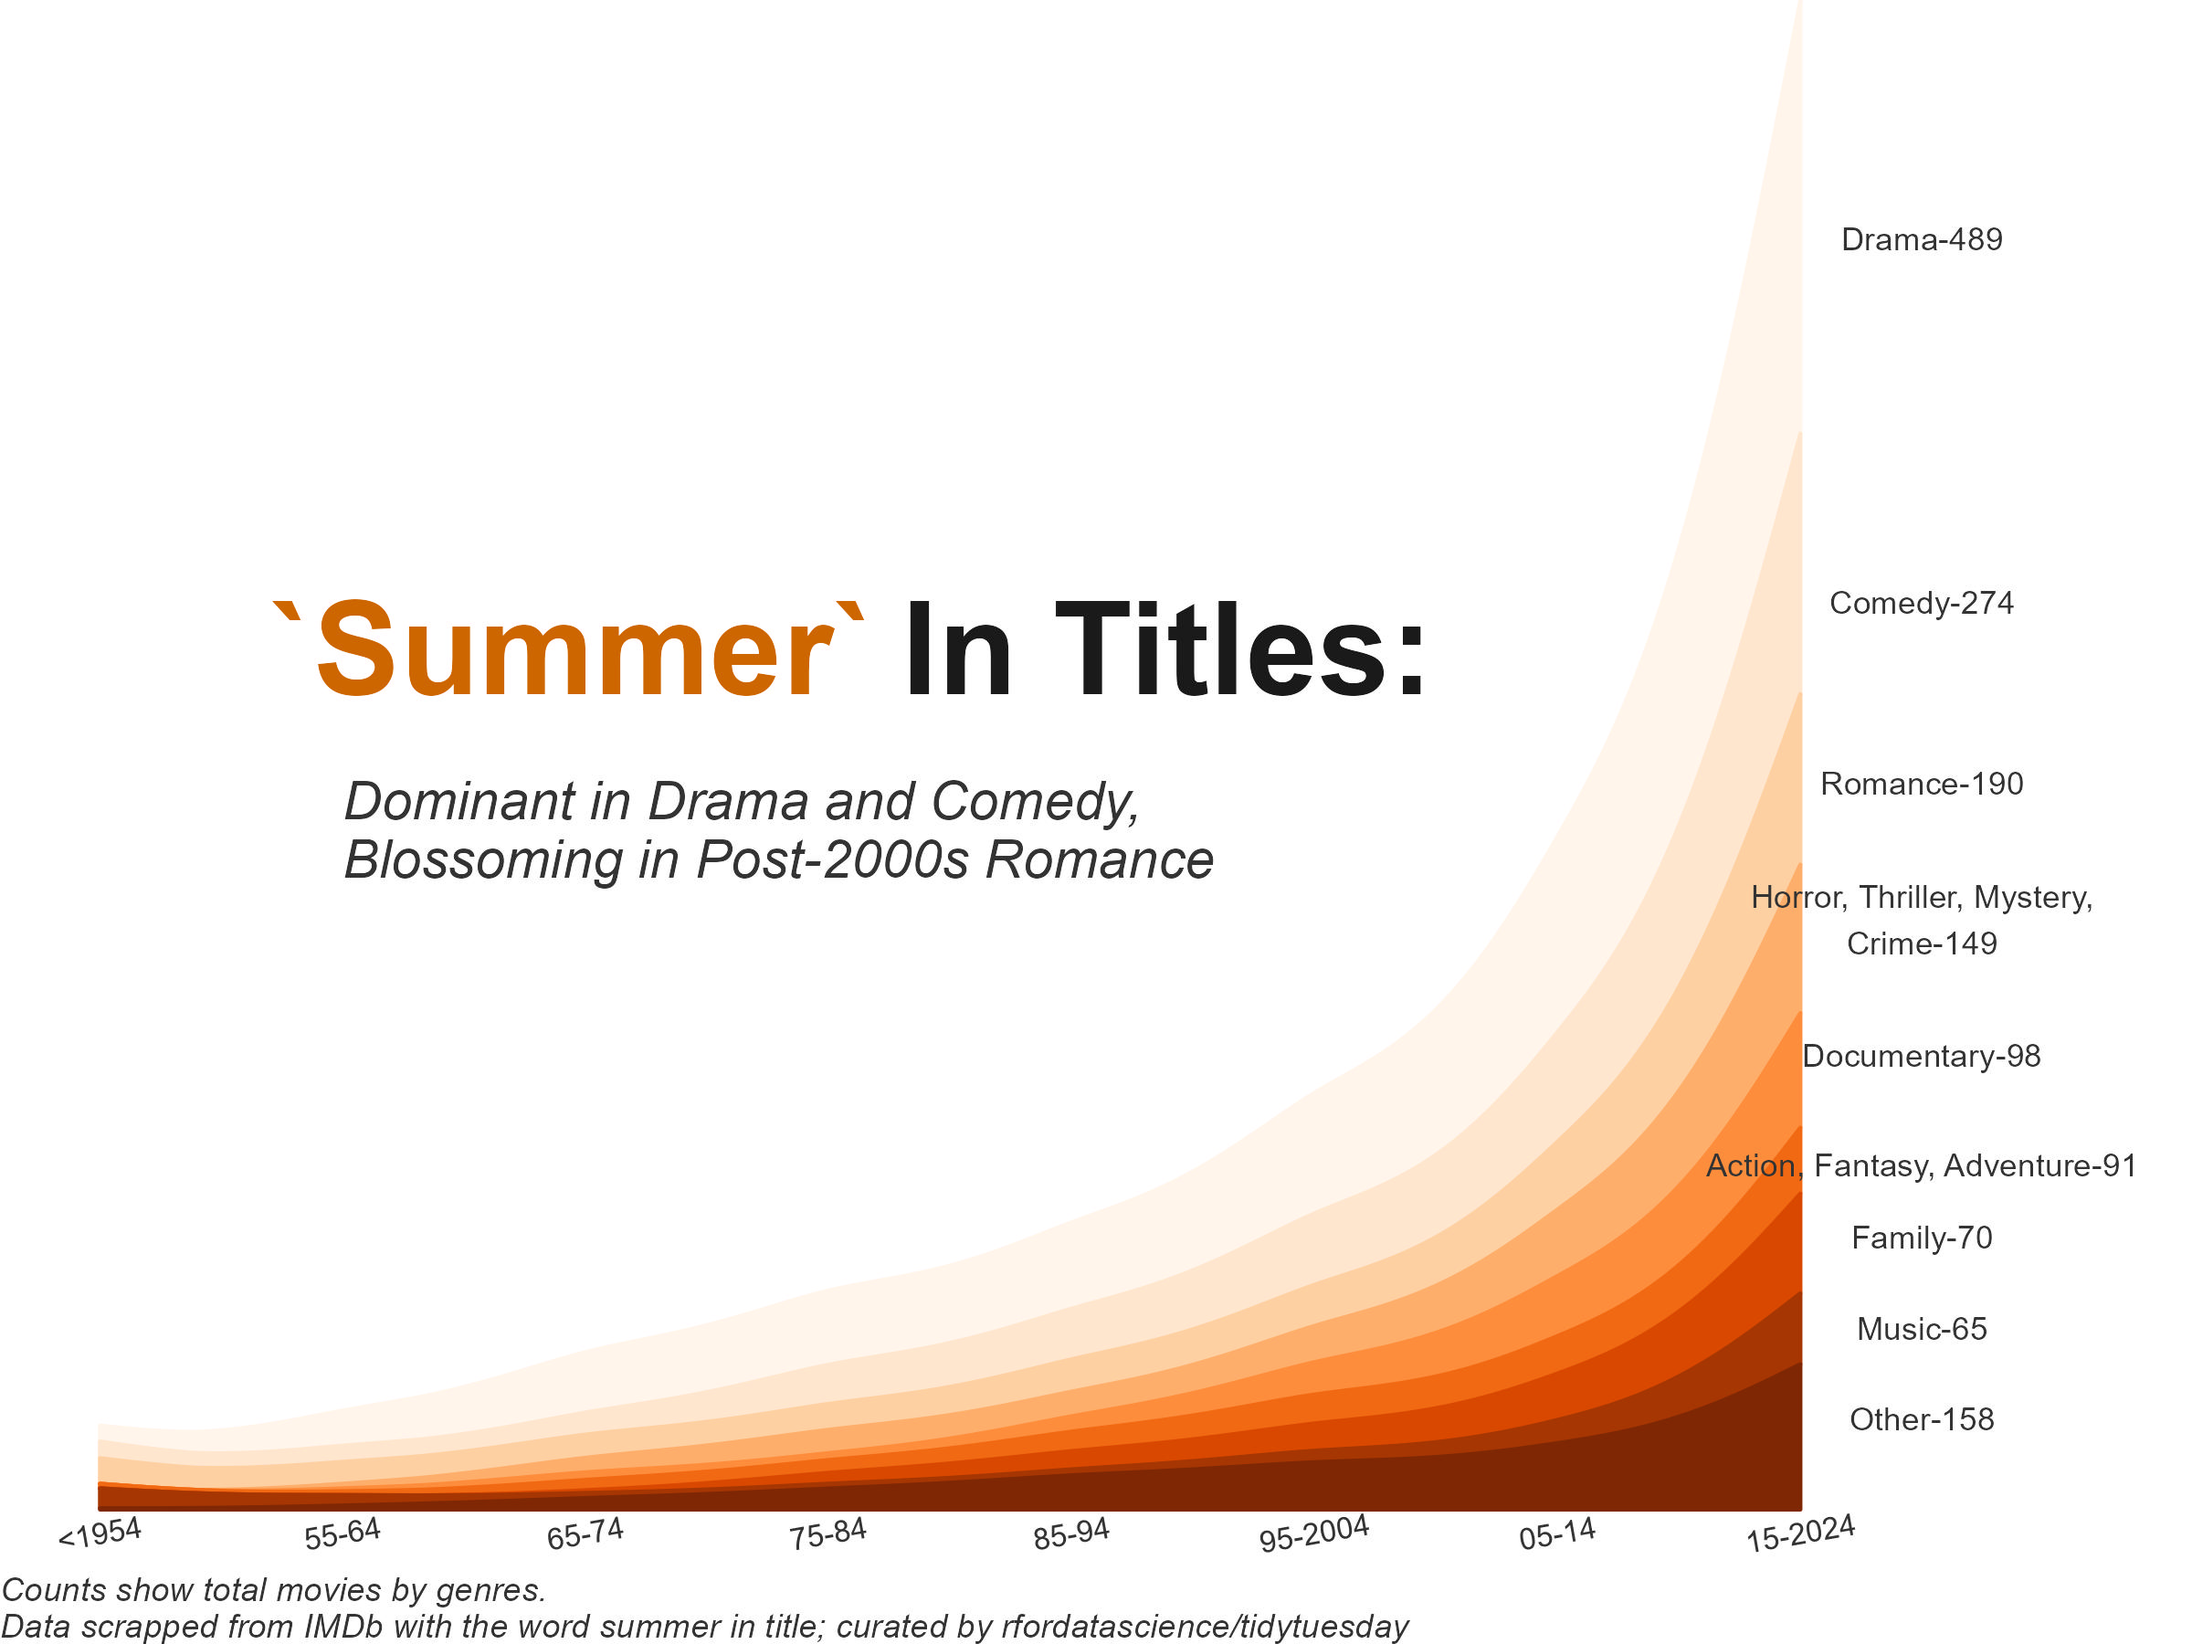
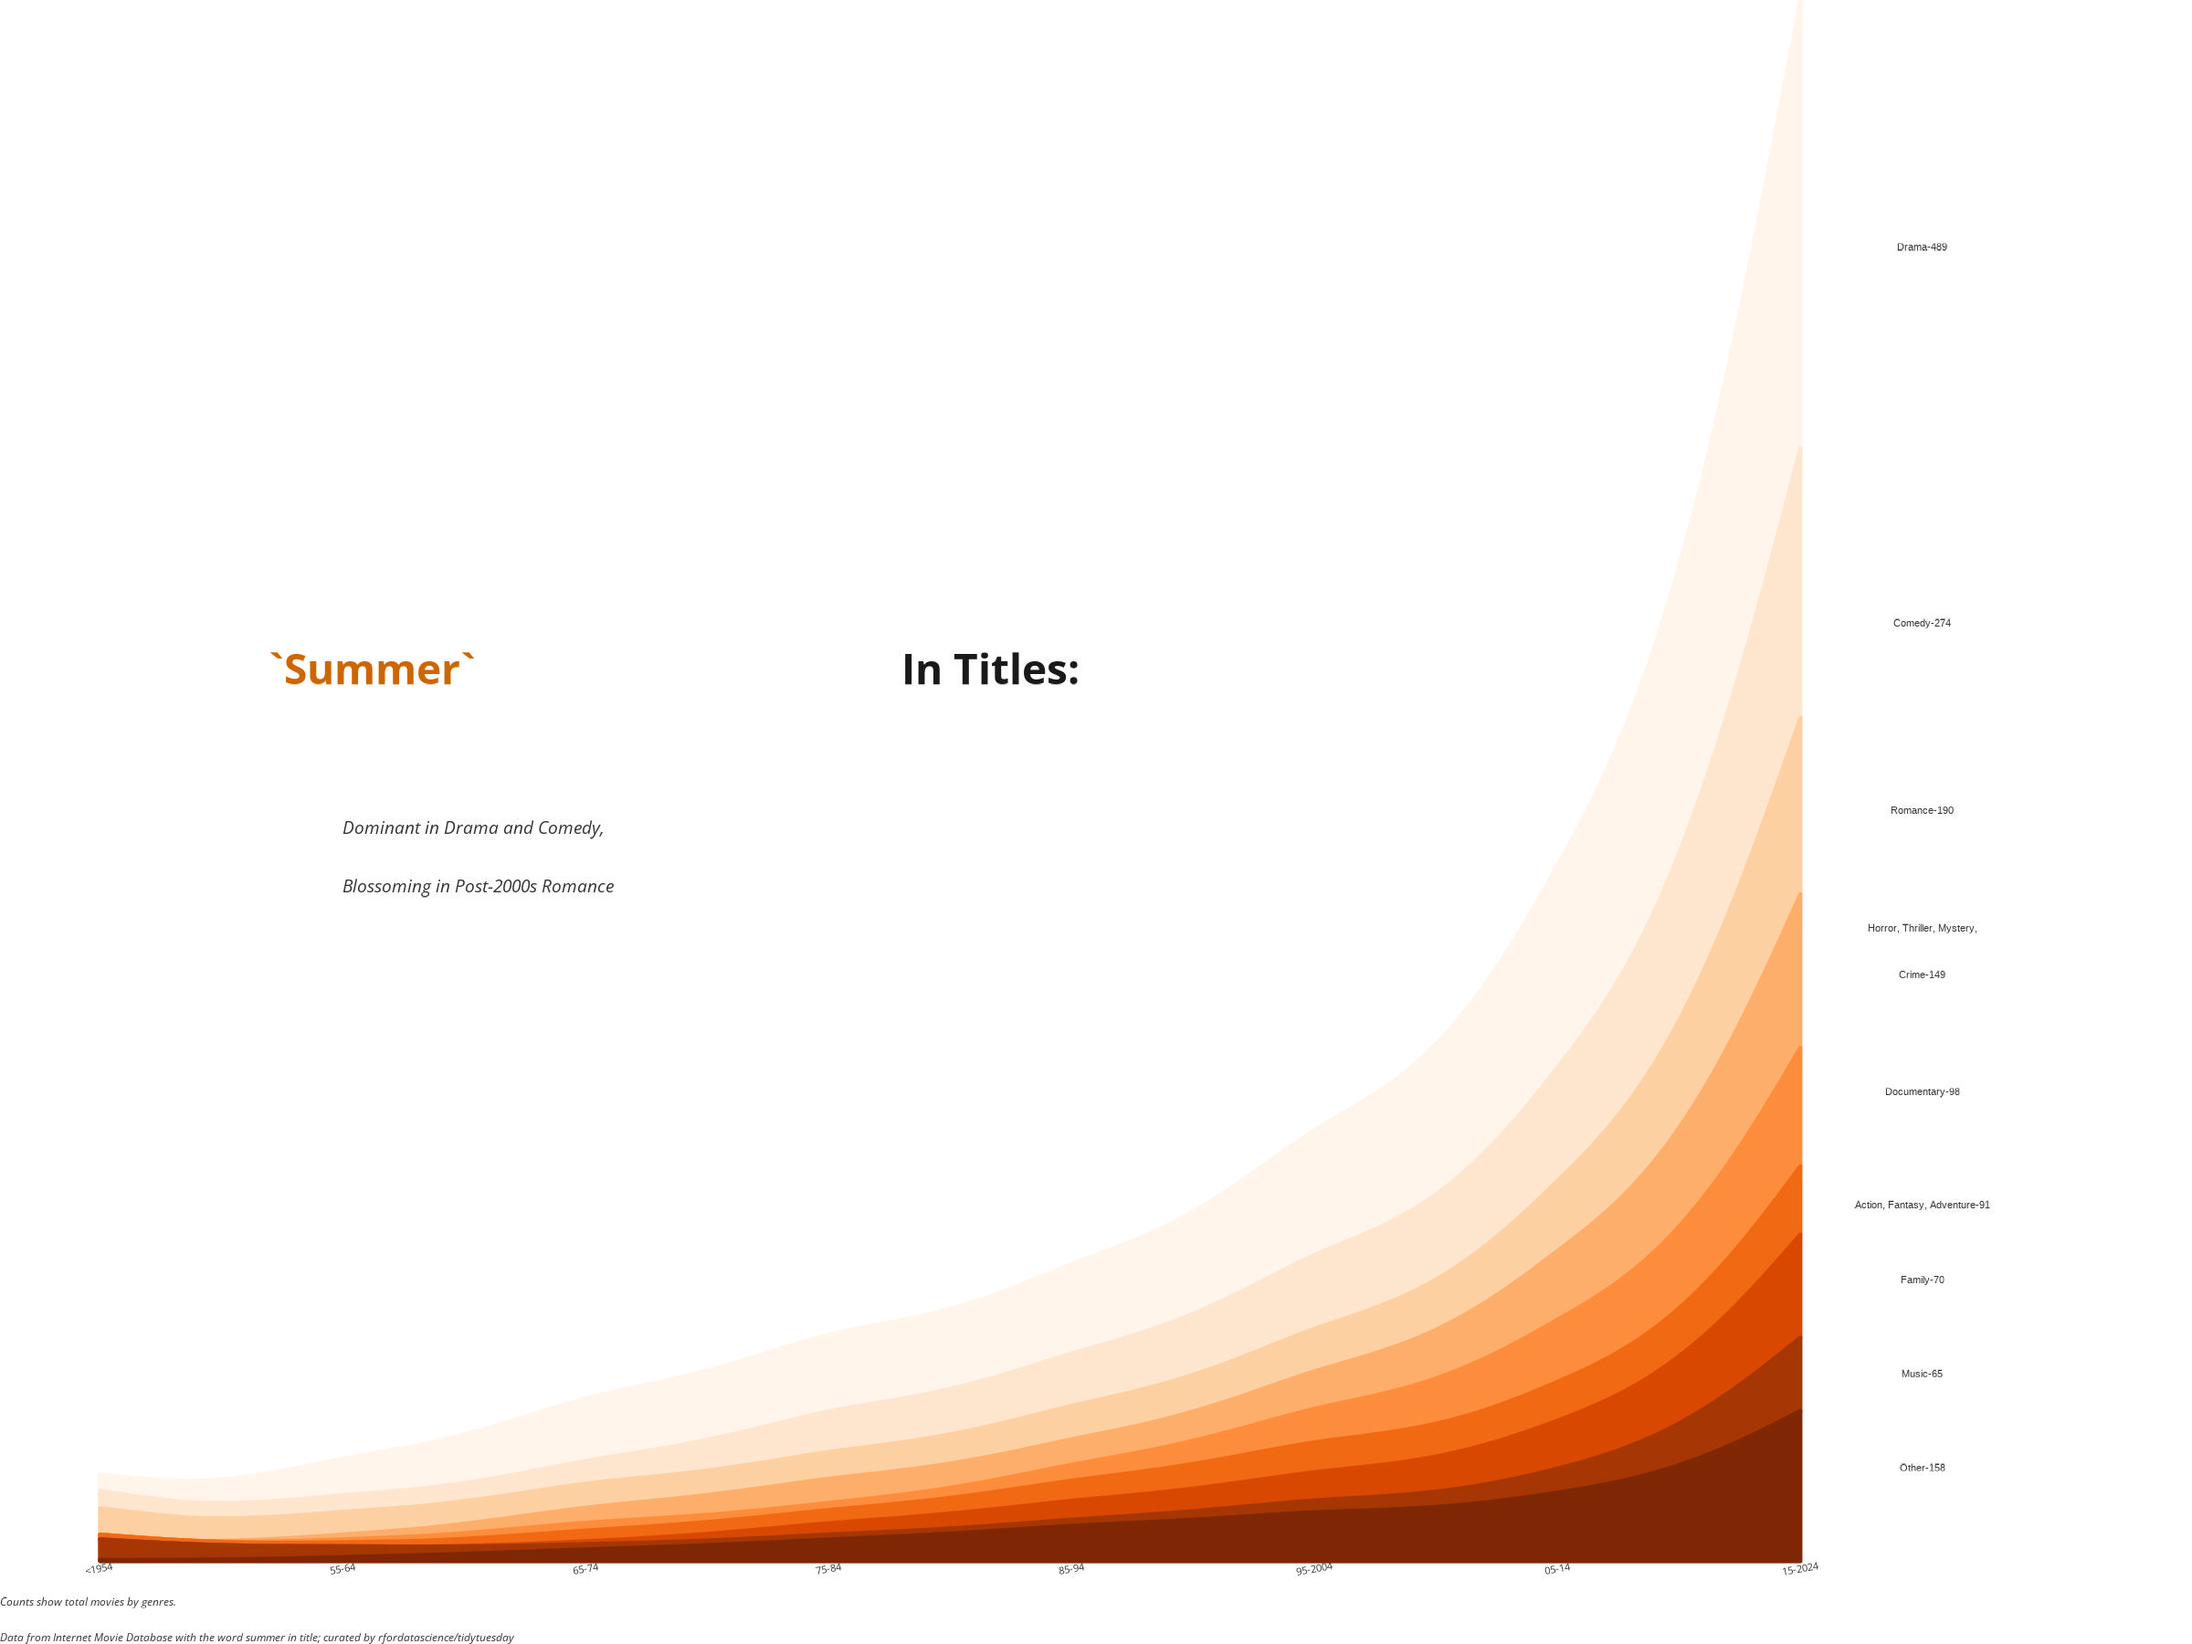
updated data source

diff --git a/tidytuesday/README.md b/tidytuesday/README.md
@@ -50,7 +50,7 @@ Each file has a date in its name for management purposes.
 
 ### July 30(Week 31)
 
-**Data:** [IMDb' Summer Movies](https://github.com/rfordatascience/tidytuesday/blob/master/data/2024/2024-07-30/readme.md)
+**Data:** [Internet Movie Database](https://github.com/rfordatascience/tidytuesday/blob/master/data/2024/2024-07-30/readme.md)
 
 **Packages:** `tidyverse`, `showtext`, `ggstream`
 
